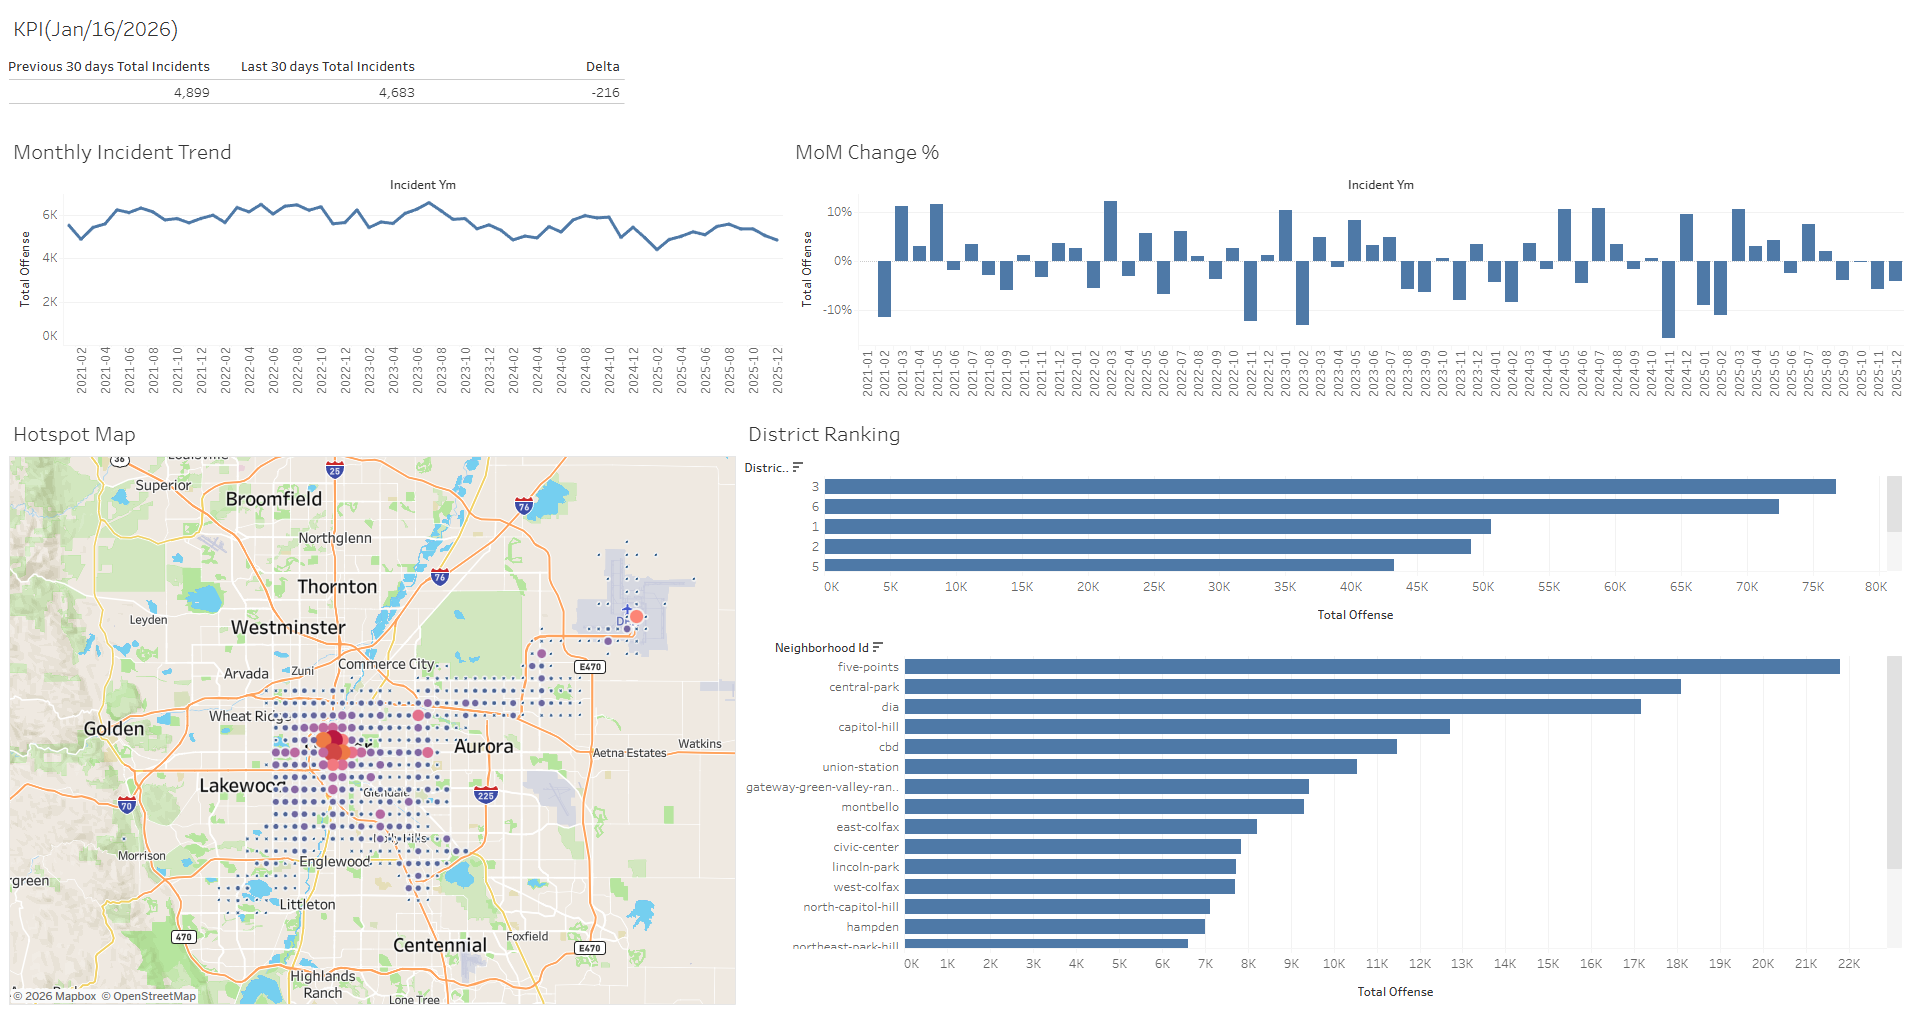
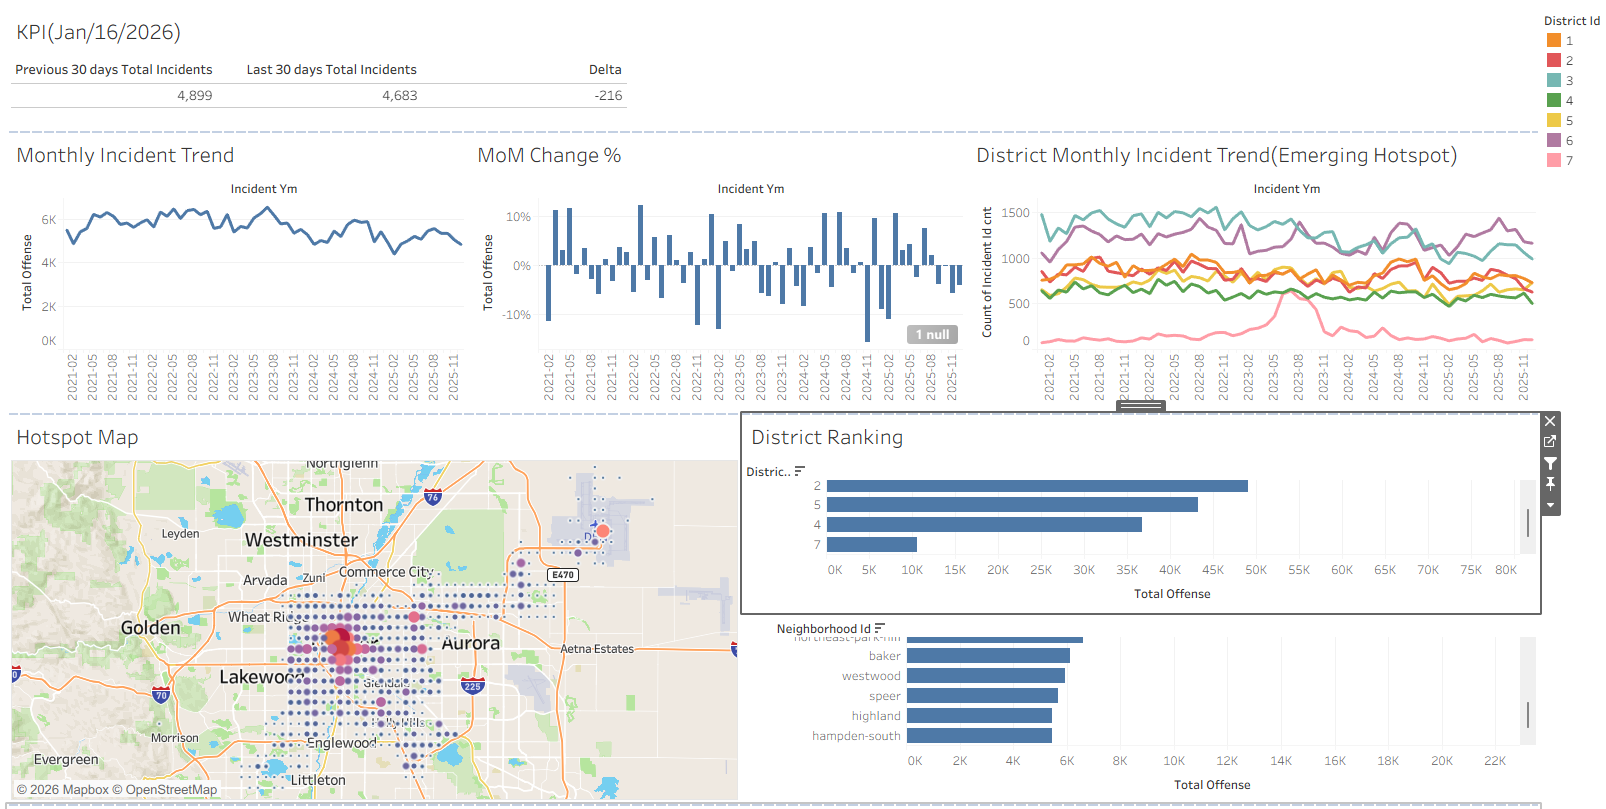
Edited readme

diff --git a/README.md b/README.md
@@ -17,15 +17,15 @@ This project was built to demonstrate **how a Crime & Data Analyst can use SQL a
 
 - Strategic crime pattern analysis (temporal & spatial)  
 - SQL-based ETL and data validation  
-- Hotspot trend detection  
-- Real-time and monthly summary reporting  
+- Hotspot and emerging trend detection  
+- Monthly summary reporting  
 - Translating analysis into **resource deployment insights**  
 - Communicating findings clearly for **non-technical stakeholders**  
 
 ## Core Analytical Questions
 
 1. **When** do crime incidents occur most frequently?  
-2. **Where** are incidents concentrated?  
+2. **Where** are incidents concentrated, and which areas are emerging hotspots?  
 3. How can these insights inform **patrol planning, staffing, and enforcement priorities**?  
 
 ## Data Overview
@@ -56,7 +56,7 @@ This project was built to demonstrate **how a Crime & Data Analyst can use SQL a
 ### Dashboard Screenshots
 - Tableau Public Link: https://public.tableau.com/app/profile/jun.park5694/viz/Denver_Crime_visualization/Dashboard1?publish=yes
 - Dashboard Action: 
-1. Filtering district on Hotspot Map and Neighborhood Hotspots by selecting on District Ranking
+1. Filtering district on District Monthly Incident Trend, Hotspot Map and Neighborhood Hotspots by selecting on District Ranking (Emerging Hotspot Visualization)
 2. Filtering district on Hotspot map by selecting on Neighborhood Ranking
 
 ![Dashboard Overview](./Visualization/db_overview.png)
@@ -79,16 +79,23 @@ Hour-of-day analysis indicates elevated incident volumes between 9:00 PM and 4:0
 ![Hour-of-day](./Visualization/hr_of_day.png) 
 
 ### Spatial Pattern & Hotspot Analysis
-- District and Neighborhood concentration  
+- District 3 shows higher total incident counts, consistent with its larger geographic area, while District 6 demonstrates a disproportionately rapid increase in incidents relative to its smaller area size.
+- Geo-grid aggregation is used to identify localized hotspots and reduce spatial noise.
+- Emerging hotspots are identified based on recent growth patterns, revealing areas of intensified activity within smaller but rapidly changing districts.
 ![d3](./Visualization/d3.png)<br>
 ![d6](./Visualization/d6.png)
 
 
 ## Recommendations
 
-- Nighttime hour-of-day patterns reveal higher incident activity between 9:00 PM and 4:00 AM, providing actionable insight for overnight staffing and patrol allocation.
-- Day-of-week trends reveal higher incident counts on Thursdays, Fridays, and Saturdays, providing useful insight for end-of-week staffing and resource allocation.  
-- Month-over-month analysis reveals a clear seasonal pattern, where incident counts increase throughout the summer and decrease during the winter, providing useful context for proactive staffing and resource planning.  
+- Overnight Staffing Optimization:
+Hour-of-day analysis indicates elevated incident activity between 9:00 PM and 4:00 AM. Consider prioritizing overnight staffing and patrol coverage during these hours to better align resources with observed demand.
+
+- End-of-Week Resource Allocation:
+Day-of-week trends show consistently higher incident volumes on Thursdays, Fridays, and Saturdays. Adjusting staffing levels and patrol deployment toward the end of the week may improve operational responsiveness during peak periods.
+
+- Seasonal Planning and Proactive Deployment:
+Month-over-month analysis reveals a clear seasonal pattern, with incident counts increasing during summer months and decreasing during winter. This trend can inform proactive staffing plans and seasonal resource adjustments to anticipate periods of higher activity.  
 
 ## Skills Demonstrated
 
